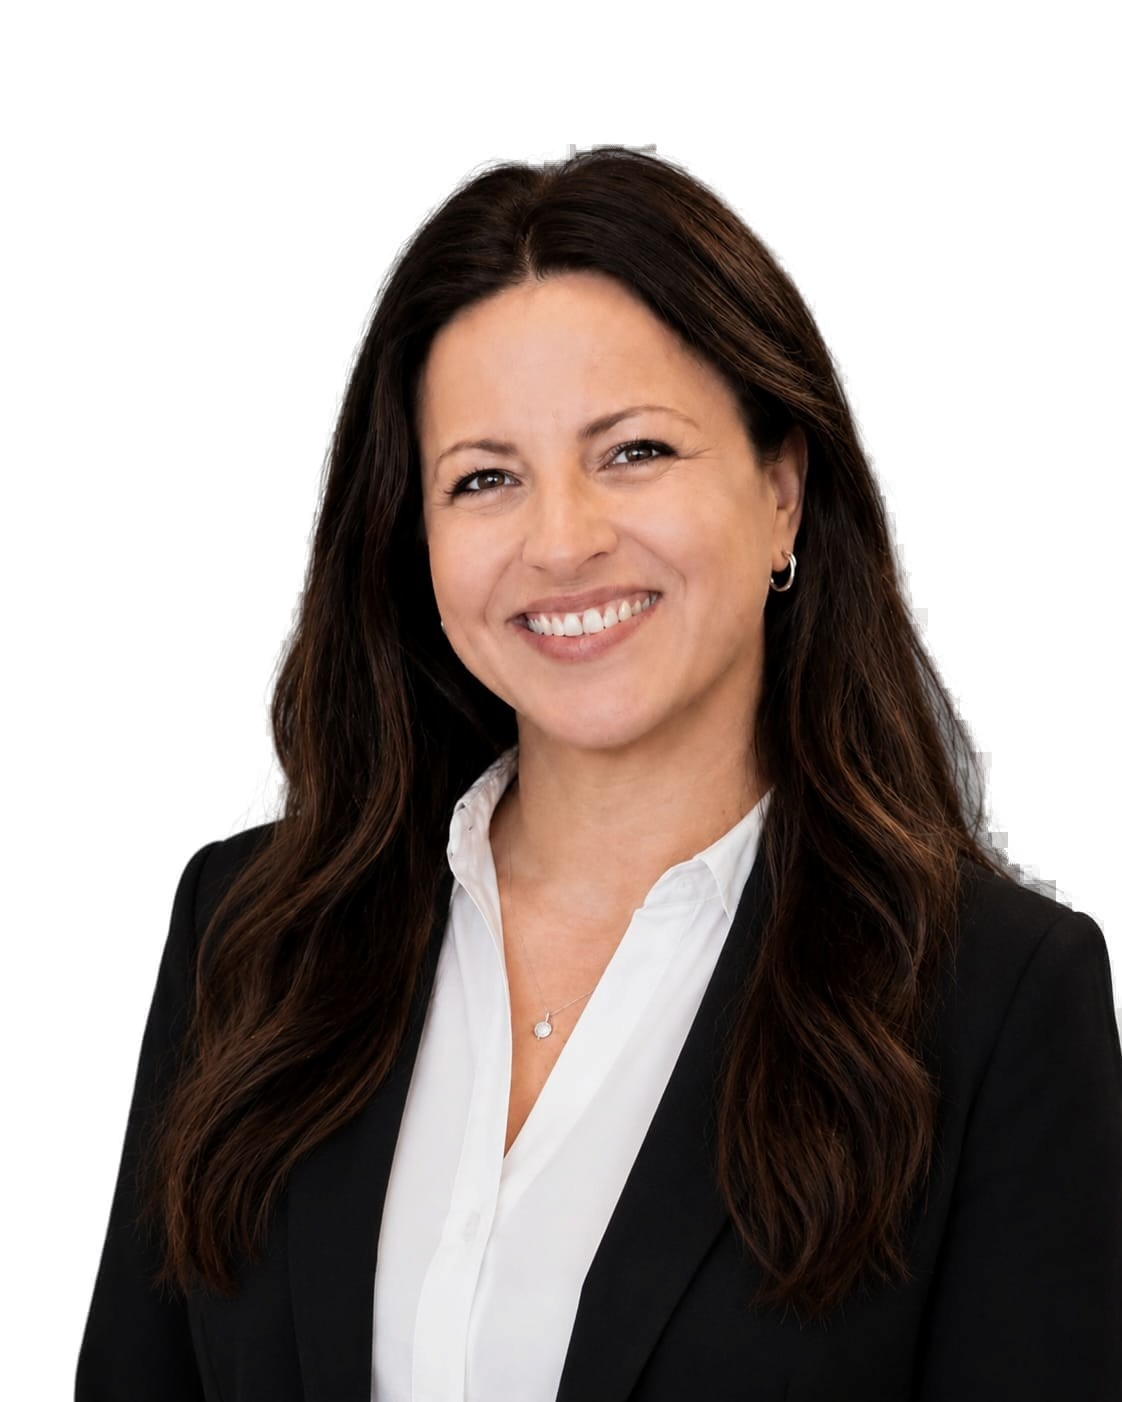
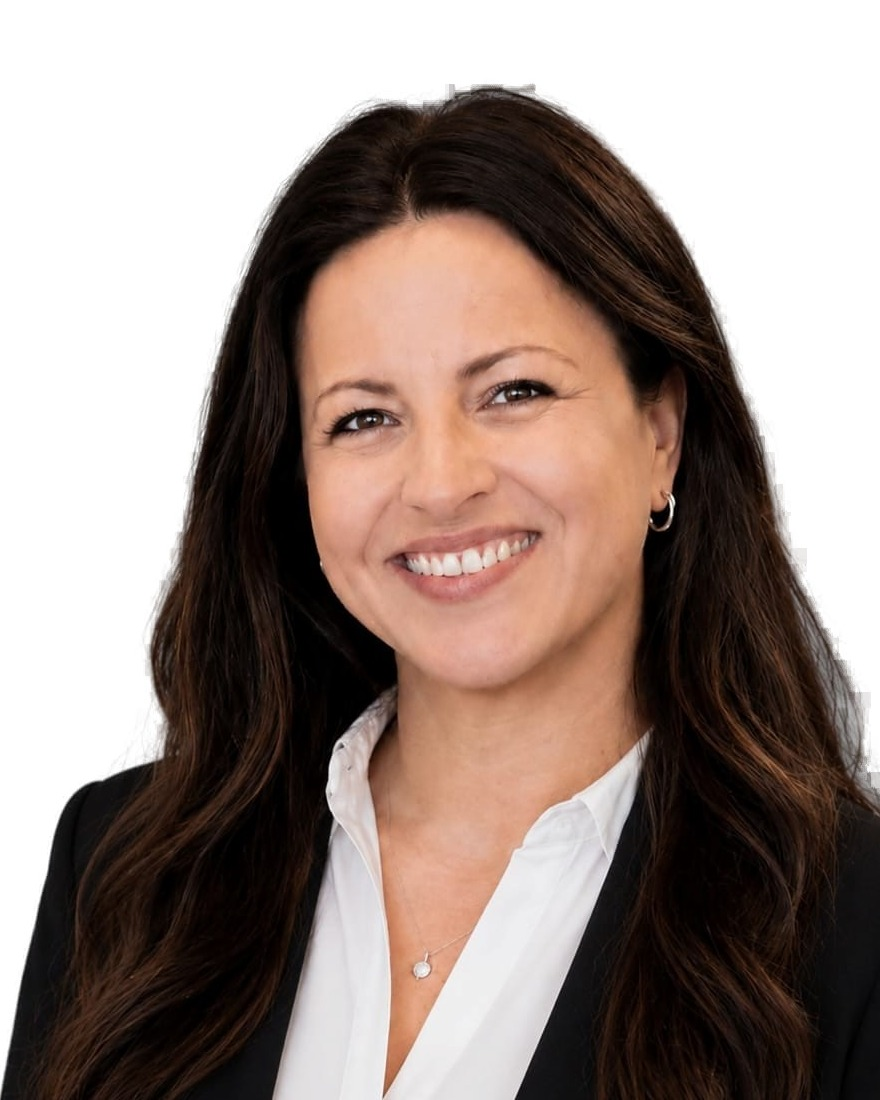
Legal team: uniform photo cards, smaller cards, Eran photo without outline

diff --git a/src/style.css b/src/style.css
@@ -3985,10 +3985,6 @@ a.about-chip:focus-visible { outline: 3px solid var(--about-gold); outline-offse
 .team-founder-photo-frame {
   position: relative; width: 380px; aspect-ratio: 4 / 5;
 }
-.team-founder-photo-frame::before {
-  content: ''; position: absolute; inset: 18px -18px -18px 18px;
-  border: 2px solid #C9A84C; border-radius: 18px; z-index: 0;
-}
 .team-founder-photo {
   position: relative; z-index: 1; display: block;
   width: 100%; height: 100%; object-fit: cover; object-position: center top;
@@ -4013,11 +4009,11 @@ a.about-chip:focus-visible { outline: 3px solid var(--about-gold); outline-offse
 
 /* Cards */
 .team-cards {
-  width: 100%; max-width: 1040px;
-  display: flex; flex-wrap: wrap; justify-content: center; gap: 28px;
+  width: 100%; max-width: 900px;
+  display: flex; flex-wrap: wrap; justify-content: center; gap: 24px;
 }
 .team-card {
-  box-sizing: border-box; flex: 0 1 calc((100% - 56px) / 3); max-width: calc((100% - 56px) / 3);
+  box-sizing: border-box; flex: 0 1 calc((100% - 48px) / 3); max-width: calc((100% - 48px) / 3);
   display: flex; flex-direction: column;
   background: #13264F; border: 1px solid rgba(201,168,76,.28); border-radius: 16px; overflow: hidden;
   cursor: pointer; text-align: right; padding: 0; font: inherit; color: inherit;
@@ -4026,26 +4022,27 @@ a.about-chip:focus-visible { outline: 3px solid var(--about-gold); outline-offse
 .team-card:hover { border-color: #C9A84C; box-shadow: 0 16px 40px rgba(0,0,0,.28); transform: translateY(-4px); }
 .team-card:focus-visible { outline: 3px solid #C9A84C; outline-offset: 3px; }
 .team-card-photo-wrap {
-  width: 100%; aspect-ratio: 4 / 5;
+  position: relative; flex: 0 0 auto; width: 100%; aspect-ratio: 4 / 5; min-height: 0; overflow: hidden;
   background: linear-gradient(180deg,#EEF0F4,#DDE2EA);
 }
-.team-card-photo { width: 100%; height: 100%; object-fit: cover; object-position: center top; display: block; }
+/* Absolutely positioned so every photo fills the same 4:5 box, whatever its own size or ratio. */
+.team-card-photo { position: absolute; inset: 0; width: 100%; height: 100%; object-fit: cover; object-position: center top; display: block; }
 .team-card-body {
   flex: 1; display: flex; flex-direction: column; align-items: center; text-align: center;
-  padding: 24px 22px 22px;
+  padding: 20px 18px 18px;
 }
-.team-card-name { font-size: 23px; font-weight: 800; color: #fff; }
+.team-card-name { font-size: 20px; font-weight: 800; color: #fff; }
 .team-card-title { font-size: 14px; font-weight: 700; color: #C9A84C; margin-top: 4px; }
-.team-card-body .team-rule { margin: 14px 0; }
+.team-card-body .team-rule { margin: 12px 0; }
 .team-card-bio {
-  margin: 0 0 20px; font-size: 15px; line-height: 1.7; color: rgba(255,255,255,.8);
+  margin: 0 0 16px; font-size: 14px; line-height: 1.7; color: rgba(255,255,255,.8);
   display: -webkit-box; -webkit-line-clamp: 5; -webkit-box-orient: vertical; overflow: hidden;
-  height: calc(15px * 1.7 * 5);
+  height: calc(14px * 1.7 * 5);
 }
 .team-card-more {
   margin-top: auto; width: 100%; box-sizing: border-box;
-  padding: 12px 18px; border: 1.5px solid #C9A84C; border-radius: 10px;
-  font-size: 15px; font-weight: 700; color: #C9A84C; text-align: center;
+  padding: 10px 16px; border: 1.5px solid #C9A84C; border-radius: 10px;
+  font-size: 14px; font-weight: 700; color: #C9A84C; text-align: center;
 }
 
 /* Buttons (founder button, CTA buttons, modal actions) */
@@ -4081,10 +4078,10 @@ a.about-chip:focus-visible { outline: 3px solid var(--about-gold); outline-offse
   overflow-y: auto;
 }
 .team-modal-photo-wrap {
-  width: 100%; aspect-ratio: 4 / 5; border-radius: 14px; overflow: hidden;
+  position: relative; flex: 0 0 auto; width: 100%; aspect-ratio: 4 / 5; min-height: 0; border-radius: 14px; overflow: hidden;
   background: linear-gradient(180deg,#EEF0F4,#DDE2EA);
 }
-.team-modal-photo { width: 100%; height: 100%; object-fit: cover; object-position: center top; display: block; }
+.team-modal-photo { position: absolute; inset: 0; width: 100%; height: 100%; object-fit: cover; object-position: center top; display: block; }
 .team-modal-contact { display: flex; flex-direction: column; gap: 12px; }
 .team-modal-contact-title { font-size: 15px; font-weight: 800; color: #C9A84C; margin-bottom: 4px; }
 .team-modal-contact-line {
@@ -4106,7 +4103,7 @@ a.team-modal-contact-line:hover { color: #C9A84C; }
 .team-modal-actions { display: flex; flex-wrap: wrap; gap: 12px; margin-top: 28px; }
 
 @media (max-width: 1024px) {
-  .team-card { flex: 0 1 calc((100% - 28px) / 2); max-width: calc((100% - 28px) / 2); }
+  .team-card { flex: 0 1 calc((100% - 24px) / 2); max-width: calc((100% - 24px) / 2); }
 }
 @media (max-width: 900px) {
   .team-founder { grid-template-columns: 1fr; gap: 36px; text-align: center; }

diff --git a/src/pages/LegalTeam.jsx b/src/pages/LegalTeam.jsx
@@ -10,7 +10,7 @@ const attorneys = [
   {
     name: 'עו"ד ערן בקר',
     title: 'מייסד',
-    photo: '/pics/03_הצוות_המשפטי/eran-beker.webp',
+    photo: '/pics/03_הצוות_המשפטי/eran-beker-team.webp',
     shortBio: 'מייסד המשרד בשנת 2003. מתמחה בתחום הרפואה והמשפט — נזיקין, רשלנות רפואית, תאונות דרכים ועבודה, ביטוח לאומי, תאונות ילדים וספורט, וחקירת סיבות מוות. ניסיון של כ-25 שנים.',
     shortRoles: [
       'יו"ר ועדת הנזיקין, הביטוח והביטוח הלאומי — מחוז חיפה',
